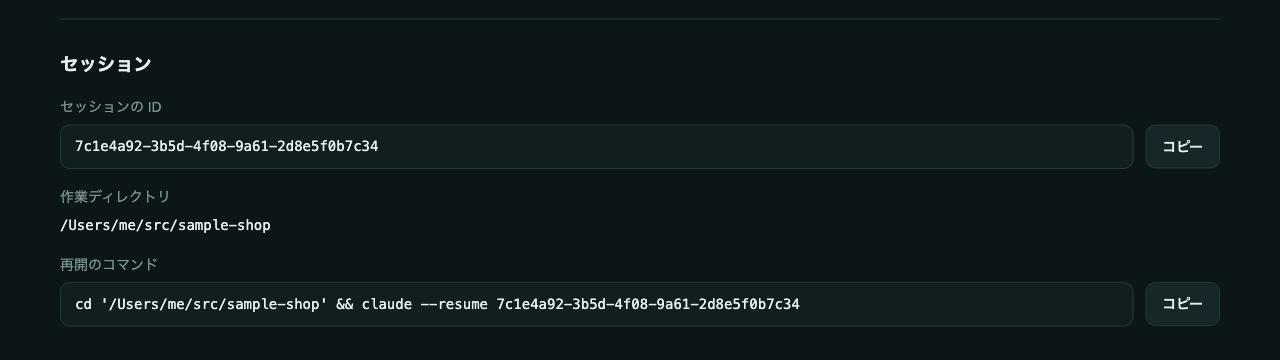
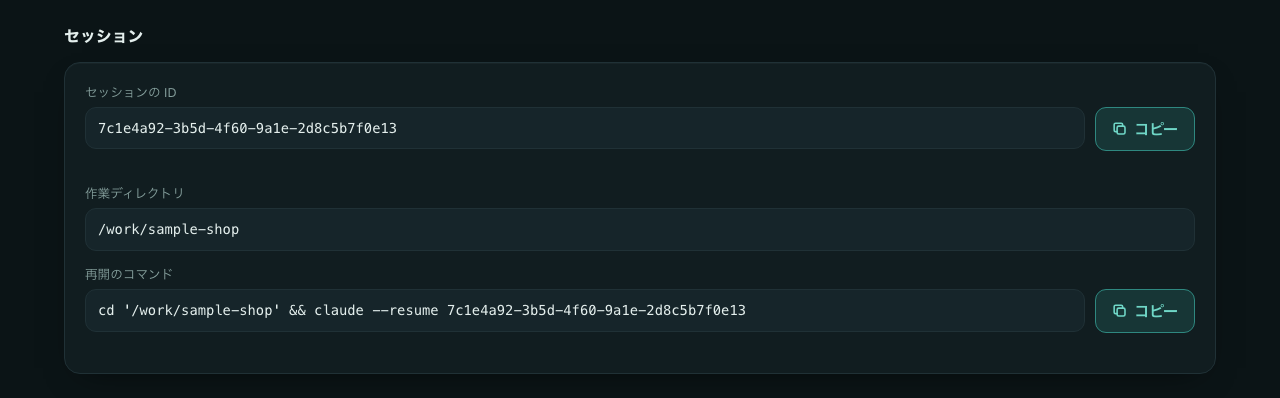
説明ページの画像 4 枚を、固定クライアントの画面で撮り直す
画面が固定のクライアントに変わったので、README と説明ページの画像を新しい画面に合わせる。
撮り方をテストとして残し、画面を変えたときに同じ手順で撮り直せるようにする。

- tests/fixtures の架空の作業（型付きパネル 7 種を含む）から、Playwright の Chromium で撮る
- 作業ごとのページ（1280px、上部から作業の様子の終わりまで）、スマホの幅（390px、
  上部から止まっているものまで）、一覧（1280px、全体）、セッションの欄
- 好みは dark / airy、アクセントは nuu のロゴの色
- NUU_DOCS_IMAGES=1 を渡したときだけ docs/images/ に書く（通常のテストでは飛ばす）

diff --git a/tests/client/screenshots.spec.js b/tests/client/screenshots.spec.js
@@ -1,11 +1,63 @@
-// fixtures の架空の作業から画面の画像を撮る。NUU_SHOTS_DIR を渡したときだけ動く（通常のテストでは飛ばす）。
-// 例: NUU_SHOTS_DIR=/tmp/shots npx playwright test screenshots --project=chromium
+// fixtures の架空の作業から画面の画像を撮る。通常のテストでは飛ばす。
+// - 好みの組み合わせごとの確認用: NUU_SHOTS_DIR=/tmp/shots npx playwright test screenshots --project=chromium
+// - README と説明ページの画像（docs/images/ の 4 枚）: NUU_DOCS_IMAGES=1 npx playwright test screenshots --project=chromium
 const path = require('path');
 const fs = require('fs');
 const { test, expect } = require('@playwright/test');
-const { makeDashboards, openAt, SAMPLE } = require('./helpers');
+const { makeDashboards, openAt, SAMPLE, ROOT } = require('./helpers');
 
 const OUT = process.env.NUU_SHOTS_DIR;
+const DOCS_IMAGES = path.join(ROOT, 'docs', 'images');
+const DOCS_PREFS = { schema: 1, theme: 'dark', density: 'airy', accent: '#3CCFBC', taskView: 'kanban' };
+
+// 要素の上下に余白を付けた、ページの幅いっぱいの範囲。
+async function band(page, top, bottom, margin = 24) {
+  const box = await page.evaluate(([a, b]) => {
+    const first = document.querySelector(a).getBoundingClientRect();
+    const last = document.querySelector(b).getBoundingClientRect();
+    return { top: first.top + window.scrollY, bottom: last.bottom + window.scrollY, width: document.documentElement.clientWidth };
+  }, [top, bottom]);
+  const y = Math.max(0, Math.floor(box.top - margin));
+  return { x: 0, y, width: box.width, height: Math.ceil(box.bottom + margin) - y };
+}
+
+test.describe('説明ページの画像', () => {
+  test.skip(!process.env.NUU_DOCS_IMAGES, 'NUU_DOCS_IMAGES を渡したときだけ docs/images/ に撮る');
+  test.skip(({ browserName }) => browserName !== 'chromium', '画像は Chromium で撮る');
+
+  test('作業ごとのページ、スマホ、一覧、セッションの欄', async ({ page }) => {
+    const board = makeDashboards();
+    try {
+      board.writePrefs(DOCS_PREFS);
+
+      // 作業ごとのページ: 上部から、作業に合わせて選んだパネル（作業の様子）の終わりまで。
+      await page.setViewportSize({ width: 1280, height: 900 });
+      await openAt(page, board.taskUrl(SAMPLE));
+      await expect(page.locator('.nuu-panel')).toHaveCount(7);
+      await expect(page.locator('[data-role="usage-short"]')).toBeVisible();
+      await page.screenshot({ path: path.join(DOCS_IMAGES, 'dashboard-desktop.png'), fullPage: true,
+        clip: await band(page, '.nuu-shell', '[data-slot="panels"]', 0).then((b) => ({ ...b, y: 0, height: b.y + b.height + 40 })) });
+
+      // セッションの欄だけを切り出す。
+      await page.screenshot({ path: path.join(DOCS_IMAGES, 'dashboard-session.png'), fullPage: true,
+        clip: await band(page, '#session', '#session') });
+
+      // スマホの幅: 上部の要約から、質問と止まっているものまで。
+      await page.setViewportSize({ width: 390, height: 844 });
+      await page.screenshot({ path: path.join(DOCS_IMAGES, 'dashboard-mobile.png'), fullPage: true,
+        clip: await band(page, '.nuu-shell', '[data-slot="attention"]', 0).then((b) => ({ ...b, y: 0, height: b.y + b.height + 32 })) });
+
+      // 一覧: ページ全体。
+      await page.setViewportSize({ width: 1280, height: 600 });
+      await page.goto(board.indexUrl());
+      await expect(page.locator('.nuu-row')).toHaveCount(6);
+      await expect(page.locator('[data-role="session-short"]').first()).toBeVisible();
+      await page.screenshot({ path: path.join(DOCS_IMAGES, 'index-desktop.png'), fullPage: true });
+    } finally {
+      board.cleanup();
+    }
+  });
+});
 const COMBOS = [
   { name: 'dark-airy', prefs: { schema: 1, theme: 'dark', density: 'airy', accent: '#3CCFBC', taskView: 'kanban' } },
   { name: 'light-dense', prefs: { schema: 1, theme: 'light', density: 'dense', accent: '#0EA5E9', taskView: 'kanban' } },
